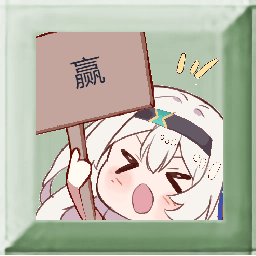
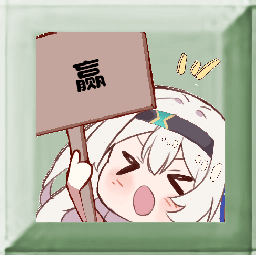
feat:完成按钮按下时图片转换

diff --git a/src/FireflyButton.java b/src/FireflyButton.java
@@ -4,13 +4,47 @@ public class FireflyButton extends Button {
     private int status = 0;
     FireflyButton(){
         super();
-        this.setMinWidth(70);
-        this.setMaxHeight(70);
+        this.setMinWidth(74);
+        this.setMaxHeight(74);
+        this.setInitStyle();
+        this.setOnMousePressed(e->{
+            this.setClickedStyle();
+        });
+        this.setOnMouseReleased(e->{
+            this.setInitStyle();
+        });
+    }
+    private void setInitStyle(){
         this.setStyle(
-                "-fx-background-image: url(./img/firefly.png);" +
+                getStyleLineWithType(0) +
                         "-fx-background-size: cover;" +
-                        "-fx-border-radius: 4;" +
-                        "-fx-border-color: #8ca386"
+                        "-fx-border-color: #8ca386;" +
+                        "-fx-border-width: 2"
         );
+    }
+    private void setClickedStyle(){
+        this.setStyle(
+                getStyleLineWithType(1) +
+                        "-fx-background-size: cover;" +
+                        "-fx-border-color: #8ca386;" +
+                        "-fx-border-width: 2"
+        );
+    }
+
+    // type 为0表示未按下，为1表示按下
+    private String getStyleLineWithType(int x){
+        String end;
+        if (x == 0) {
+            end = ".png);";
+        } else {
+            end = "_onClick.png);";
+        }
+        return switch (status) {
+            case 0 -> "-fx-background-image: url(./img/firefly" + end;
+            case 1 -> "-fx-background-image: url(./img/firefly_press" + end;
+            case 2 -> "-fx-background-image: url(./img/firefly_win" + end;
+            case 3 -> "-fx-background-image: url(./img/firefly_lose" + end;
+            default -> "err";
+        };
     }
 }
